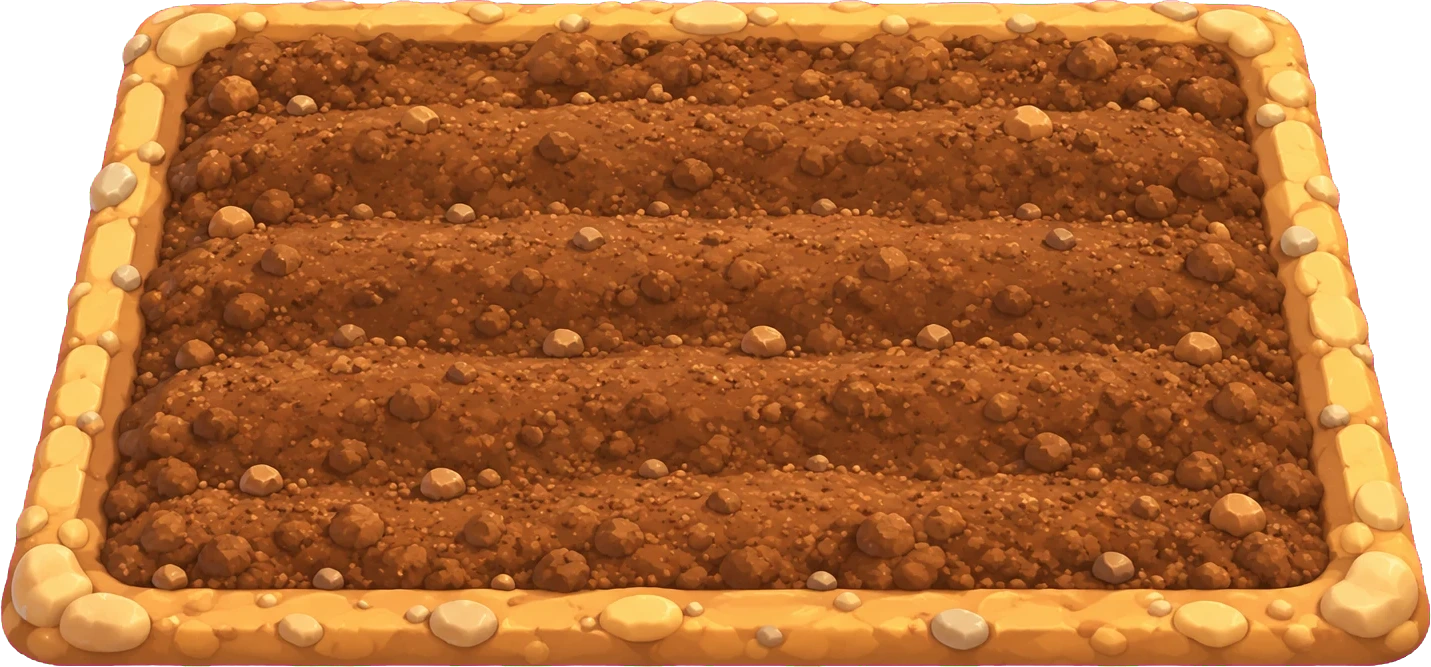
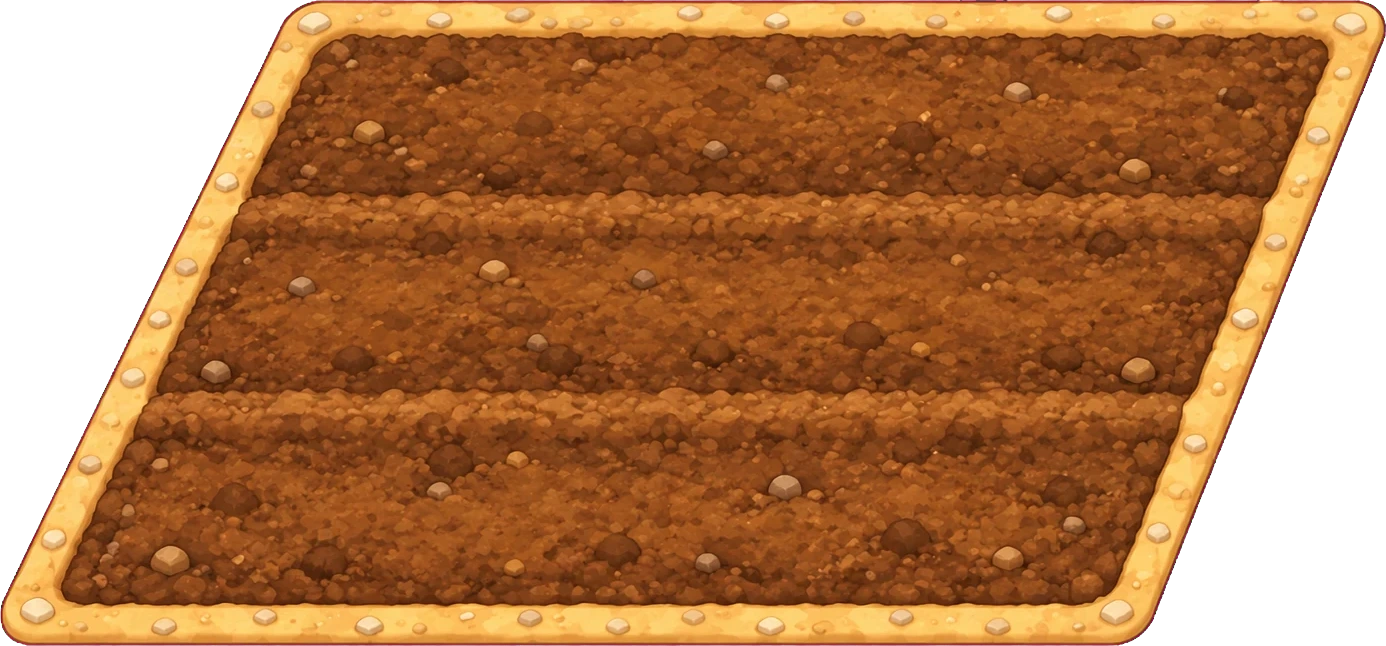
농장: 평행사변형 밭, 잘린 작물 그림 수정, 농장에서 여행 도감 숨김
Claude-Session: https://claude.ai/code/session_01QsJz8svXLJhiXtuEPA1E7w

diff --git a/src/components/FarmScene.tsx b/src/components/FarmScene.tsx
@@ -10,16 +10,15 @@ import { ShopModal } from './ShopModal'
 
 type Tool = 'seed' | 'water' | 'harvest'
 
-/** 밭 9칸의 위치(배경 그림 기준 %). 아래 줄로 갈수록 크게 보이게 해서 배경의 원근과 맞춘다. */
-const ROWS = [
-  { y: 47.5, w: 21, xs: [31, 53, 75] },
-  { y: 59, w: 23, xs: [28.5, 53, 77.5] },
-  { y: 71, w: 25, xs: [26, 53, 80] },
-]
-/** 밭 칸 그림은 원래 2.1:1 인데 조금 높게(1.75:1) 늘려서 흙이 더 잘 보이게 한다 */
-const PLOT_ASPECT = 1.75
-/** 작물 그림 한 장의 크기(px). 세 작물이 같은 비율로 그려졌으니 가로 500 = 칸 폭의 55% 로 맞춘다 */
-const CROP_BOX: Record<string, [number, number]> = { carrot: [500, 499], strawberry: [500, 453], corn: [500, 619] }
+/** 밭 9칸: 오른쪽으로 기운 평행사변형. 위 줄일수록 오른쪽으로 밀려 전체가 비스듬한 밭이 된다 (배경 그림 기준 %) */
+const TILE_W = 22
+const TILE_H = TILE_W * (646 / 1386) * (1024 / 1536)
+const PITCH = 21
+const SHEAR = TILE_W * 0.203
+const ROW_Y = [49.5, 57.5, 65.5]
+const FIRST_X = 30
+/** 작물 그림 한 장의 크기(px). 가로 500 = 칸 폭의 48% */
+const CROP_BOX: Record<string, [number, number]> = { carrot: [568, 499], strawberry: [578, 453], corn: [505, 619] }
 
 /** 그림 파일이 없으면 이모지로 대신 보여 준다 (그림을 나중에 채워도 코드는 그대로) */
 function FarmImg({ name, emoji, className, style, alt = '' }: { name: string; emoji: string; className?: string; style?: React.CSSProperties; alt?: string }) {
@@ -97,27 +96,28 @@ export function FarmScene({ outfit, tweaks, onExit, onWear }: { outfit: Outfit; 
         </div>
 
         {/* 밭 9칸 */}
-        {ROWS.map((row, r) => row.xs.map((x, c) => {
+        {ROW_Y.map((y, r) => [0, 1, 2].map((c) => {
+          const x = FIRST_X + SHEAR * (2 - r) + c * PITCH
           const i = r * 3 + c
           const plot = farm.plots[i]
           const progress = growth(plot, now)
           const ready = progress === 1
           const crop = plot ? CROPS.find((cr) => cr.id === plot.crop)! : null
           const wet = !!plot && plot.wateredAt !== null && !ready
-          const h = row.w / PLOT_ASPECT * (1024 / 1536)
           const label = !plot ? (ko ? `${i + 1}번 밭 심기` : `Plant in plot ${i + 1}`) : plot.wateredAt === null ? (ko ? `${i + 1}번 밭 물 주기` : `Water plot ${i + 1}`) : ready ? (ko ? `${i + 1}번 밭 수확하기` : `Harvest plot ${i + 1}`) : (ko ? `${i + 1}번 밭 자라는 중` : `Plot ${i + 1} growing`)
           return (
-            <button key={i} aria-label={label} className="absolute -translate-x-1/2 -translate-y-1/2" style={{ left: `${x}%`, top: `${row.y}%`, width: `${row.w}%`, height: `${h}%`, zIndex: 2 }} onClick={() => tapPlot(i)}>
+            <div key={i} className="pointer-events-none absolute -translate-x-1/2 -translate-y-1/2" style={{ left: `${x}%`, top: `${y}%`, width: `${TILE_W}%`, height: `${TILE_H}%`, zIndex: 2 + r }}>
               <FarmImg name={wet ? 'plot_wet' : 'plot_dry'} emoji="🟫" className="absolute inset-0 h-full w-full" style={{ objectFit: 'fill' }} />
               {plot && crop && (
-                <FarmImg name={`${crop.id}_${stageOf(plot.wateredAt, progress)}`} emoji={ready ? crop.emoji : plot.wateredAt === null ? '🌰' : progress < 0.4 ? '🌱' : '🌿'} className="absolute left-1/2 -translate-x-1/2" style={{ bottom: '30%', width: `${CROP_BOX[crop.id][0] / 500 * 55}%`, aspectRatio: `${CROP_BOX[crop.id][0]} / ${CROP_BOX[crop.id][1]}`, objectFit: 'contain', objectPosition: 'bottom' }} />
+                <FarmImg name={`${crop.id}_${stageOf(plot.wateredAt, progress)}`} emoji={ready ? crop.emoji : plot.wateredAt === null ? '🌰' : progress < 0.4 ? '🌱' : '🌿'} className="absolute left-1/2 -translate-x-1/2" style={{ bottom: '34%', width: `${CROP_BOX[crop.id][0] / 500 * 48}%`, aspectRatio: `${CROP_BOX[crop.id][0]} / ${CROP_BOX[crop.id][1]}`, objectFit: 'contain', objectPosition: 'bottom' }} />
               )}
               {plot && (
                 <span aria-hidden className={`absolute left-1/2 -translate-x-1/2 rounded-full bg-white/90 px-1.5 text-[10px] leading-4 font-bold shadow ${ready ? 'animate-bounce' : ''}`} style={{ bottom: '-3%' }}>
                   {ready ? (ko ? '수확!' : 'Ready!') : plot.wateredAt === null ? '💧' : `${Math.ceil((1 - progress) * crop!.seconds)}${ko ? '초' : 's'}`}
                 </span>
               )}
-            </button>
+              <button aria-label={label} className="pointer-events-auto absolute inset-0" style={{ clipPath: 'polygon(20.3% 0, 100% 0, 83.1% 100%, 0 100%)' }} onClick={() => tapPlot(i)} />
+            </div>
           )
         }))}
 

diff --git a/src/App.tsx b/src/App.tsx
@@ -45,6 +45,7 @@ import {
 } from './lib/storage'
 import { pruneTweaks, sanitizeTweaks, stripZ } from './lib/tweaks'
 import type { Item, Outfit, SavedOutfit, Tweaks } from './lib/types'
+import { useTravelFull } from './lib/travelUi'
 
 /** 되돌리기: 이 시간(ms) 안에 이어지는 조절은 한 번으로 묶고, 최대 이만큼 기억한다 */
 const UNDO_GAP_MS = 500
@@ -61,6 +62,7 @@ const prefersReducedMotion = () => window.matchMedia?.('(prefers-reduced-motion:
 const newUid = () => `${Date.now().toString(36)}${Math.random().toString(36).slice(2, 6)}`
 
 export default function App() {
+  const travelFull = useTravelFull()
   const initial = useMemo(loadSettings, [])
   const [lang, setLang] = useState<Lang>(initial.lang ?? detectLang())
   const [sound, setSound] = useState(initial.sound ?? true)
@@ -425,7 +427,7 @@ export default function App() {
           </div>
         </section>
 
-        <aside className={`flex ${mode === 'travel' ? 'h-[28dvh]' : 'h-[40dvh]'} shrink-0 flex-col overflow-hidden rounded-3xl bg-white/90 shadow-lg ring-1 ring-black/5 md:h-auto md:w-[400px]`}>
+        <aside hidden={mode === 'travel' && travelFull} className={`flex ${mode === 'travel' ? 'h-[28dvh]' : 'h-[40dvh]'} shrink-0 flex-col overflow-hidden rounded-3xl bg-white/90 shadow-lg ring-1 ring-black/5 md:h-auto md:w-[400px]`}>
           <div id="adjustment-controls" className="shrink-0" />
           {mode === 'travel' ? (
             <TravelBook outfit={outfit} onToggle={(id) => { const it = ITEM_BY_ID[id]; if (it) onToggle(it) }} />

diff --git a/src/components/TravelGame.tsx b/src/components/TravelGame.tsx
@@ -1,4 +1,5 @@
-import { useMemo, useState, useSyncExternalStore } from 'react'
+import { useEffect, useMemo, useState, useSyncExternalStore } from 'react'
+import { setTravelFull } from '../lib/travelUi'
 import { currentAssignment, gameVersion, getGame, subscribeGame, travelTo } from '../lib/game'
 import type { Outfit, Tweaks } from '../lib/types'
 import { useItemsVersion } from '../lib/useItemsVersion'
@@ -37,6 +38,7 @@ export function TravelGame({ outfit, tweaks, onWear, initialPlaceId = null }: Pr
   const assign = useMemo(currentAssignment, [ver])
   const [scene, setScene] = useState<string | null>(initialPlaceId)
 
+  useEffect(() => { setTravelFull(farm); return () => setTravelFull(false) }, [farm])
   if (starRain) return <StarRainWalk outfit={outfit} tweaks={tweaks} onExit={() => setStarRain(false)} />
   if (farm) return <FarmScene outfit={outfit} tweaks={tweaks} onExit={() => setFarm(false)} onWear={onWear} />
 

diff --git a/src/lib/travelUi.ts b/src/lib/travelUi.ts
@@ -1,0 +1,11 @@
+import { useSyncExternalStore } from 'react'
+
+/** 농장 같은 전체 화면 장면이 열려 있으면 여행 도감 패널을 숨긴다 */
+let full = false
+const subs = new Set<() => void>()
+export function setTravelFull(v: boolean) {
+  if (full === v) return
+  full = v
+  subs.forEach((f) => f())
+}
+export const useTravelFull = () => useSyncExternalStore((f) => { subs.add(f); return () => { subs.delete(f) } }, () => full)
